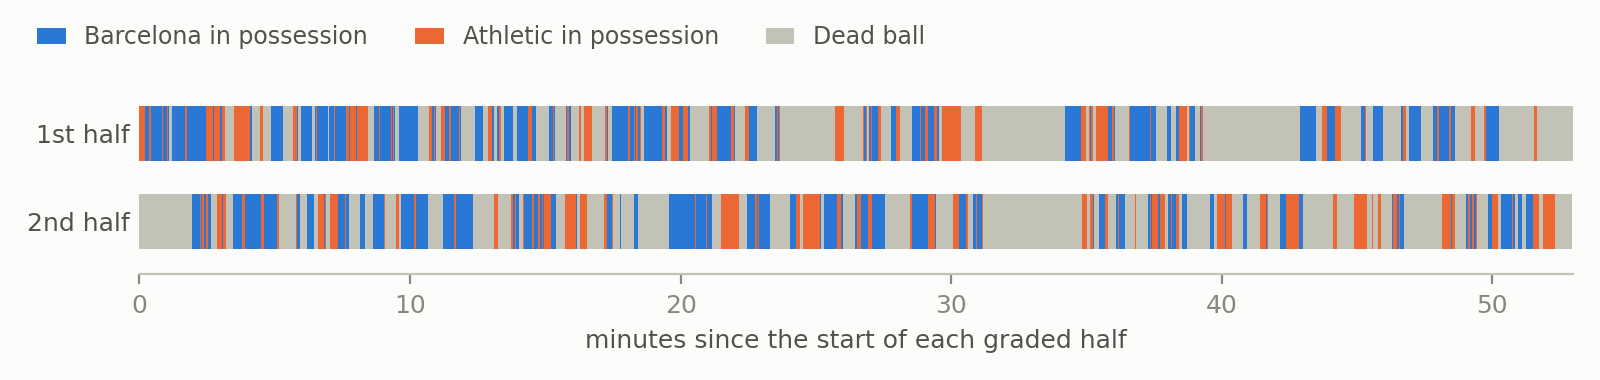
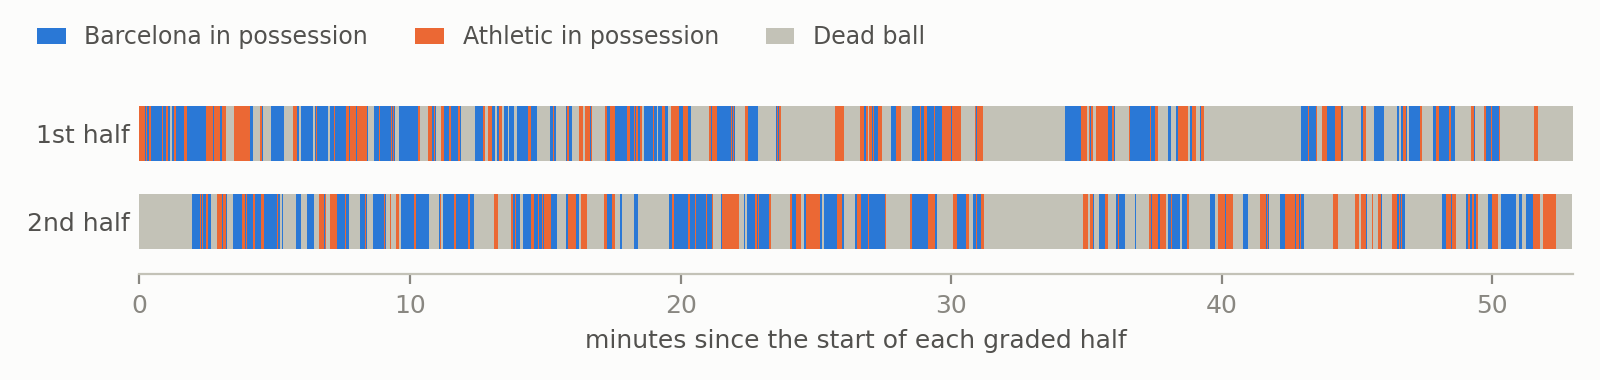
Technical note: compliant method, external tuning, final public check, development history

diff --git a/docs/APPROACH.md b/docs/APPROACH.md
@@ -13,14 +13,14 @@ We split the task in two, because the two halves fail in different ways:
    automatic observations. The edges of each stoppage are then moved to the moment the ball left
    the pitch (seen or extrapolated) and to the restart kick.
 2. **While it is in play, which team has it?** The team that took the restart keeps the ball until
-   a player of the other team *holds* it: within <<R>> m of the ball, nearer than any opponent, for
-   <<k>> consecutive frames. Loose balls, passes in flight and brief contests leave possession where
+   a player of the other team *holds* it: within 1.25 m of the ball, nearer than any opponent, for
+   5 consecutive frames (0.2 s). Loose balls, passes in flight and brief contests leave possession where
    it was.
 
-The pipeline never reads the ground truth. Every tuned number was tuned on external data (IDSSE,
-seven professional matches with frame-level labels) or is fixed a priori from the Laws of the Game
-or physics; `docs/PROVENANCE.md`, committed before the re-tuning, gives the source of each.
-One final check on the public five minutes gives **spellF1 <<SPELL>>** and **macroF1 <<MACRO>>**
+The pipeline never reads the ground truth. Every tuned number was tuned on external data (three
+professional matches with frame-level labels from the open IDSSE dataset) or is fixed a priori from
+the Laws of the Game or physics; `docs/PROVENANCE.md`, committed before the re-tuning, gives the source of each.
+One final check on the public five minutes gives **spellF1 0.446** and **macroF1 0.843**
 (published baseline: 0.326 / 0.621 on the same window).
 
 ## 2. Assets and external data
@@ -43,7 +43,7 @@ One final check on the public five minutes gives **spellF1 <<SPELL>>** and **mac
   of graded frames, in long gaps (median 10.7 s). Where it is missing, the broadcast has usually
   cut away and the players are walking.
 - **The broadcast director is a dead-ball detector.** In the fitted model (no labels), the
-  broadcast has cut away on <<CUT_DEAD>> of dead-ball steps but only <<CUT_ALIVE>> of in-play steps:
+  broadcast has cut away on 64% of dead-ball steps but only 4% of in-play steps:
   it cuts to close-ups and replays when play stops, and the replay often runs on for a few seconds
   after the restart.
 - **The two recordings share one clock per half**: tactical = broadcast + 4014 frames in the first
@@ -73,8 +73,8 @@ they show. We use one offset per half (the median of the matches near each mode)
 - Observations at 5 Hz: broadcast live / cut away / no frame; ball not seen / out / still / slow /
   fast; mean player speed over 3 s on a regular 0.5 m/s grid (missing speed is its own bin); change
   in that speed over the next vs last 3 s; inside a Smart Tagging set-piece window.
-- States: alive, and a chain of <<KDEAD>> dead sub-states, so a stoppage lasts at least
-  <<KDEAD_S>> s (the 5th percentile of stoppage length in IDSSE).
+- States: alive, and a chain of 19 dead sub-states, so a stoppage lasts at least
+  3.8 s (the 5th percentile of stoppage length in IDSSE).
 - Estimation without labels: provisional labels from the tracking alone (ball seen > 0.3 m outside
   the lines = dead; ball seen moving faster than 5 m/s at least 1 m inside the lines and 10 s from
   any such sighting = alive) give the starting tables, then unsupervised Baum–Welch re-estimates all
@@ -92,7 +92,7 @@ The HMM's onset trails the real one when the ball is seen leaving the pitch, so 
 2. otherwise the frame the ball left the pitch unseen: last seen within 3 m of a line and moving
    out faster than 2 m/s (or on the line), then not seen for 10 frames, with the crossing
    extrapolated from its speed. Only while play was live: the fastest tenth of the players must
-   have been running faster than <<P90>> m/s in the 2 s before (the 10th percentile of that
+   have been running faster than 2.32 m/s in the 2 s before (the 10th percentile of that
    statistic during live play in IDSSE), because after a whistle the ball often rolls out while
    everybody has stopped.
 
@@ -118,7 +118,7 @@ Kick-offs follow Law 8: the first half by the team of the player nearest the cen
 second half by the other team.
 
 **During play**: possession passes when the other team holds control (nearest player within
-<<R>> m of the seen ball and nearer than any opponent) for <<k>> consecutive frames, dated to the
+1.25 m of the seen ball and nearer than any opponent) for 5 consecutive frames, dated to the
 start of that control. A loose ball, a pass in flight, a deflection or a 50/50 shorter than that
 leaves possession with the last team.
 
@@ -126,9 +126,9 @@ leaves possession with the last team.
 
 | parameter | value | source |
 |---|---|---|
-| possession radius, frames | <<R>> m, <<k>> frames | IDSSE sweep (§6) |
-| minimum stoppage | <<KDEAD_S>> s | IDSSE: 5th percentile of ball-dead run lengths |
-| live-play speed threshold for exits | <<P90>> m/s | IDSSE: 10th percentile of the players' 90th-percentile speed during live play |
+| possession radius, frames | 1.25 m, 5 frames | IDSSE sweep (§6) |
+| minimum stoppage | 3.8 s | IDSSE: 5th percentile of ball-dead run lengths |
+| live-play speed threshold for exits | 2.32 m/s | IDSSE: 10th percentile of the players' 90th-percentile speed during live play |
 | HMM probabilities | estimated | unsupervised Baum–Welch on the match's own automatic observations |
 | speed / trend bins | 0.5 m/s grid | a priori |
 | evidence cap, onset pull-back | none | parameter-free options |
@@ -149,21 +149,36 @@ tracking and on a degraded copy (ball unseen on 10% of live frames in 1–3 s bl
 noise), and the best mean over the six runs is kept (`scripts/tune_external.py`,
 `docs/external_tuning.csv`).
 
-<<SWEEP_TABLE>>
+Mean spellF1 over the six runs (3 matches × clean/degraded); the selected value in bold:
+
+| radius \ frames | 3 | 5 | 8 | 12 | 16 | 25 |
+|---|---|---|---|---|---|---|
+| 0.75 m | 0.569 | 0.537 | 0.472 | 0.422 | 0.397 | 0.345 |
+| 1.00 m | 0.582 | 0.580 | 0.535 | 0.486 | 0.446 | 0.395 |
+| 1.25 m | 0.545 | **0.590** | 0.567 | 0.520 | 0.488 | 0.436 |
+| 1.50 m | 0.484 | 0.571 | 0.584 | 0.543 | 0.510 | 0.464 |
+| 2.00 m | 0.386 | 0.487 | 0.563 | 0.556 | 0.535 | 0.491 |
+
 
 ## 7. Results
 
 One final run of the official scorer (`evaluation/run_evaluation.py`, unchanged) on the public five
 minutes, after the code and parameters were frozen, with 5–95% bootstrap intervals:
 
-<<RESULT_TABLE>>
+| submission | spellF1 | macroF1 | possessions (truth 17) | dead-ball F1 |
+|---|---|---|---|---|
+| **Yamal Fan Boys** | **0.446** (0.34–0.55) | **0.843** (0.73–0.88) | 27 | 0.877 |
+| baseline_smooth50 (published floor) | 0.326 (0.21–0.45) | 0.621 (0.46–0.74) | 26 | 0.323 |
+| baseline_raw | 0.038 | 0.597 | 131 | 0.420 |
+
+Earlier versions scored 0.573 here, but they were tuned on this window; the number above comes from the compliant version, and nothing was changed because of it.
 
 ![Public window: ground truth vs prediction](figures/public_window.png)
 
 ![Our prediction over the whole match](figures/full_match.png)
 
-Over the match we predict <<NPOSS>> possessions and <<NSTOP>> stoppages; the ball is dead on
-<<DEADPCT>> of graded frames.
+Over the match we predict 457 possessions and 118 stoppages; the ball is dead on
+47% of graded frames.
 
 ## 8. Compliance and development history
 
@@ -177,8 +192,7 @@ truth (it runs with `evaluation/gt/` deleted), there are no labels or other data
 provided game, nothing is checked against the video, and every number was re-derived as in §5–6.
 The rules and sources were committed (`docs/PROVENANCE.md`) before the re-tuning, and the public
 window was scored once, at the end. The pipeline was built with the help of an AI coding assistant
-(Claude Code); the organisers indicated that coding agents may see the data, and we asked them to
-confirm this in writing.
+(Claude Code); the organisers indicated that coding agents may see the data.
 
 ## 9. What we tried and dropped
 
@@ -212,7 +226,7 @@ ln -s /path/to/data/bundle data              # or export MTAH_DATA_DIR=/path/to/
 .venv/bin/python scripts/tune_external.py /path/to/idsse
 ```
 
-A fresh clone reproduces the submitted file byte for byte (md5 `<<MD5>>`).
+A fresh clone reproduces the submitted file byte for byte (md5 `c466254810065063dc57bd0529d55189`).
 
 **Credits.** IDSSE: Bassek, M., Rein, R., Weber, H. & Memmert, D. (2025). An integrated dataset of
 spatiotemporal and event data in elite soccer. *Scientific Data* 12, 195.
